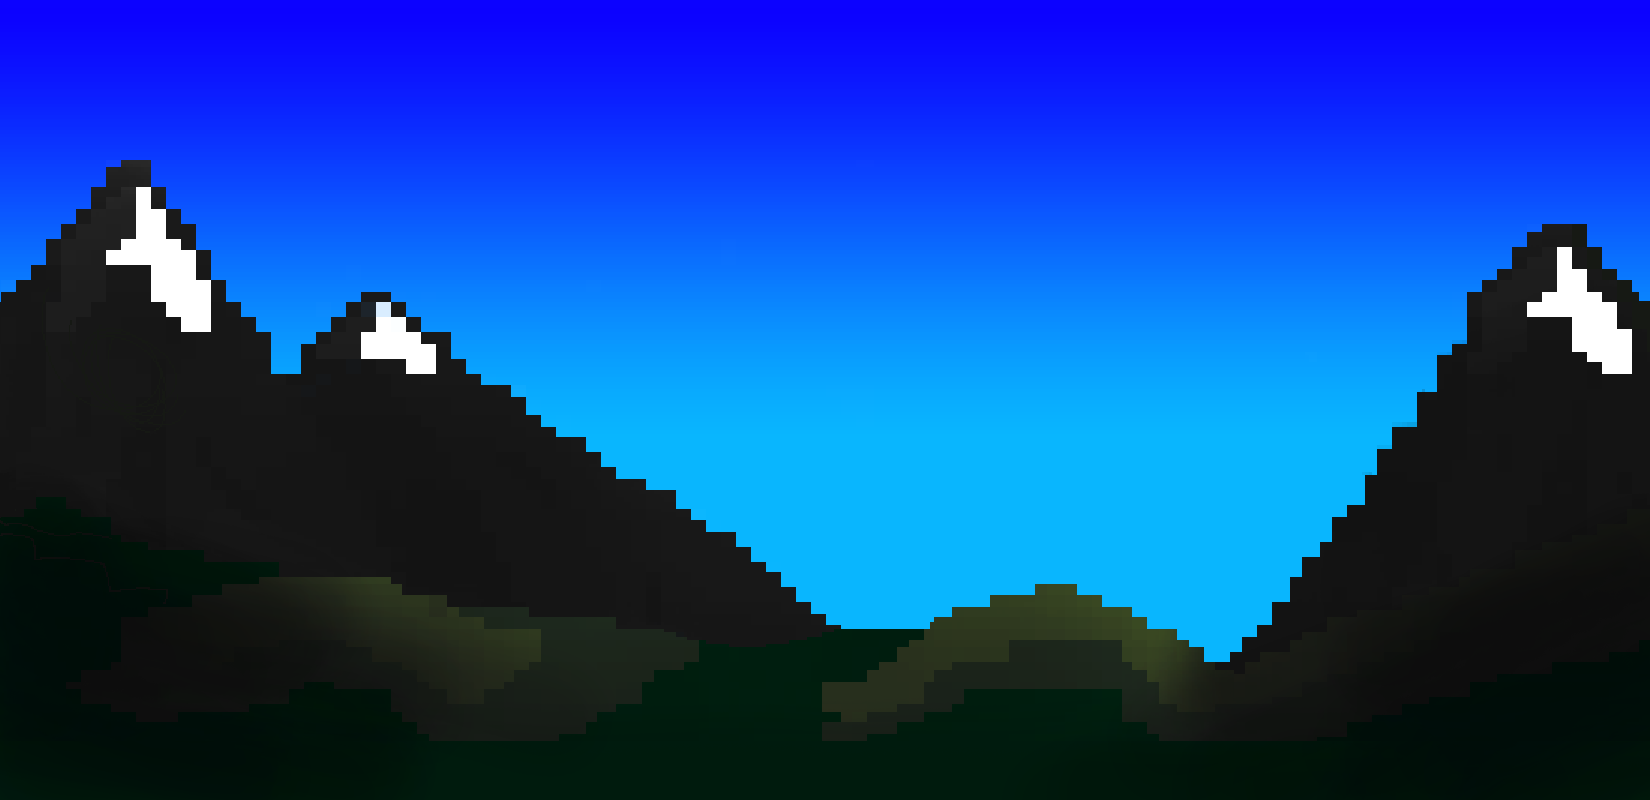
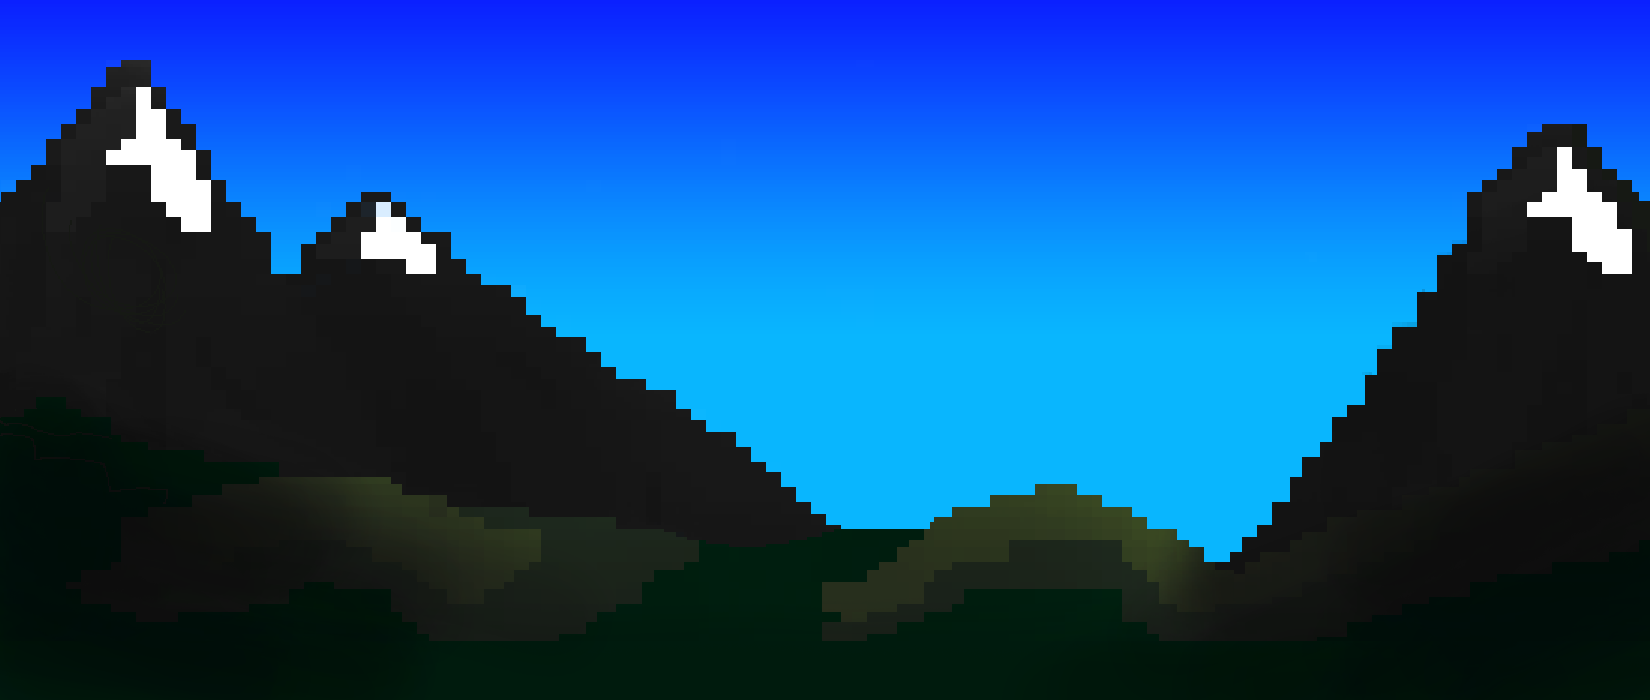
win_height

diff --git a/game.py b/game.py
@@ -5,7 +5,7 @@ pygame.init()
 
 # init variables
 
-win_width, win_height = 1300, 800  # important is only win_height
+win_width, win_height = 1300, 700  # important is only win_height
 win = pygame.display.set_mode((win_width, win_height))
 win_caption = pygame.display.set_caption("castle_run")
 
